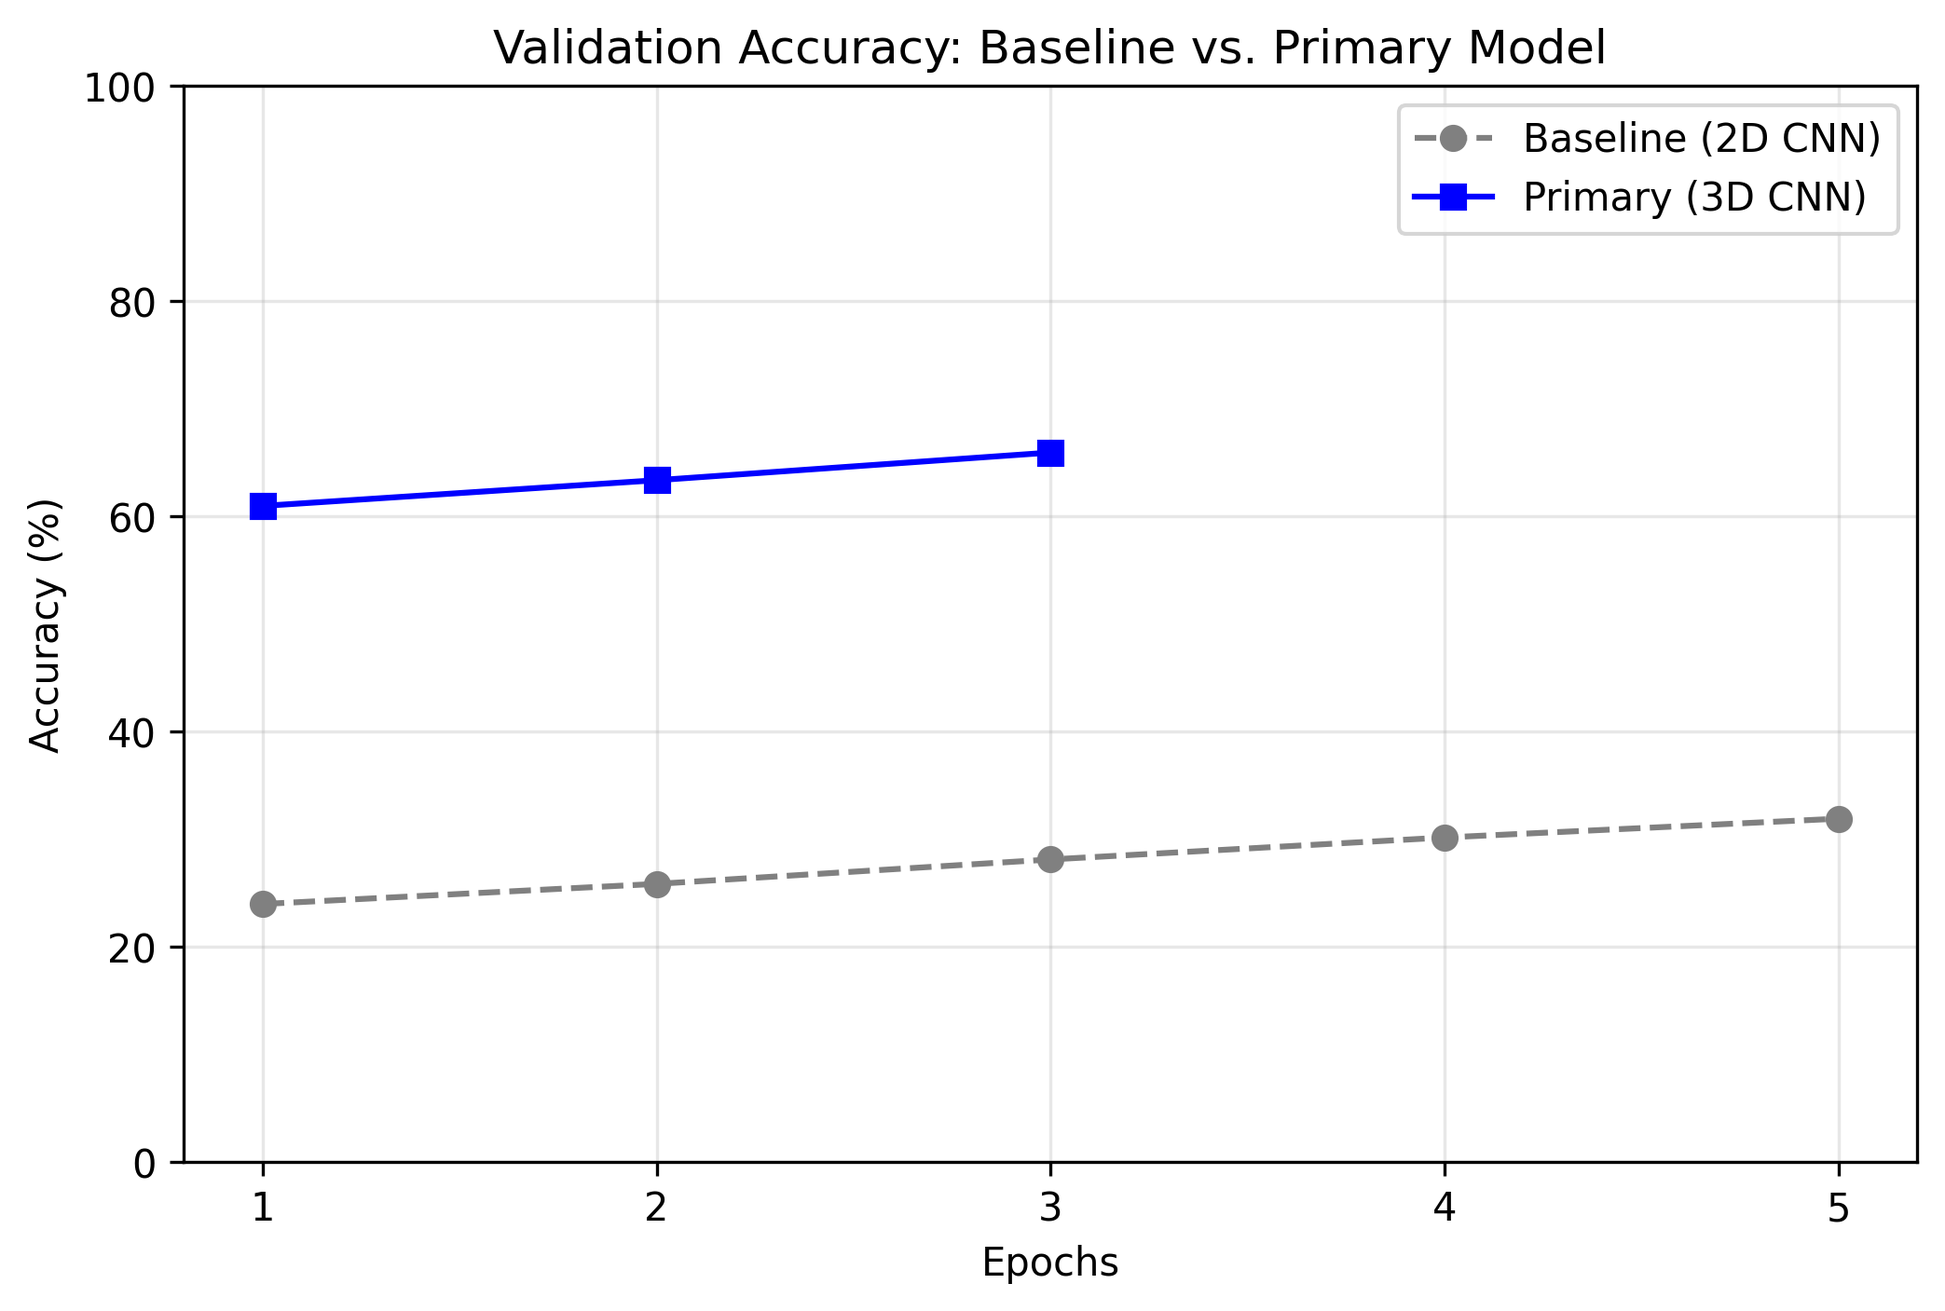
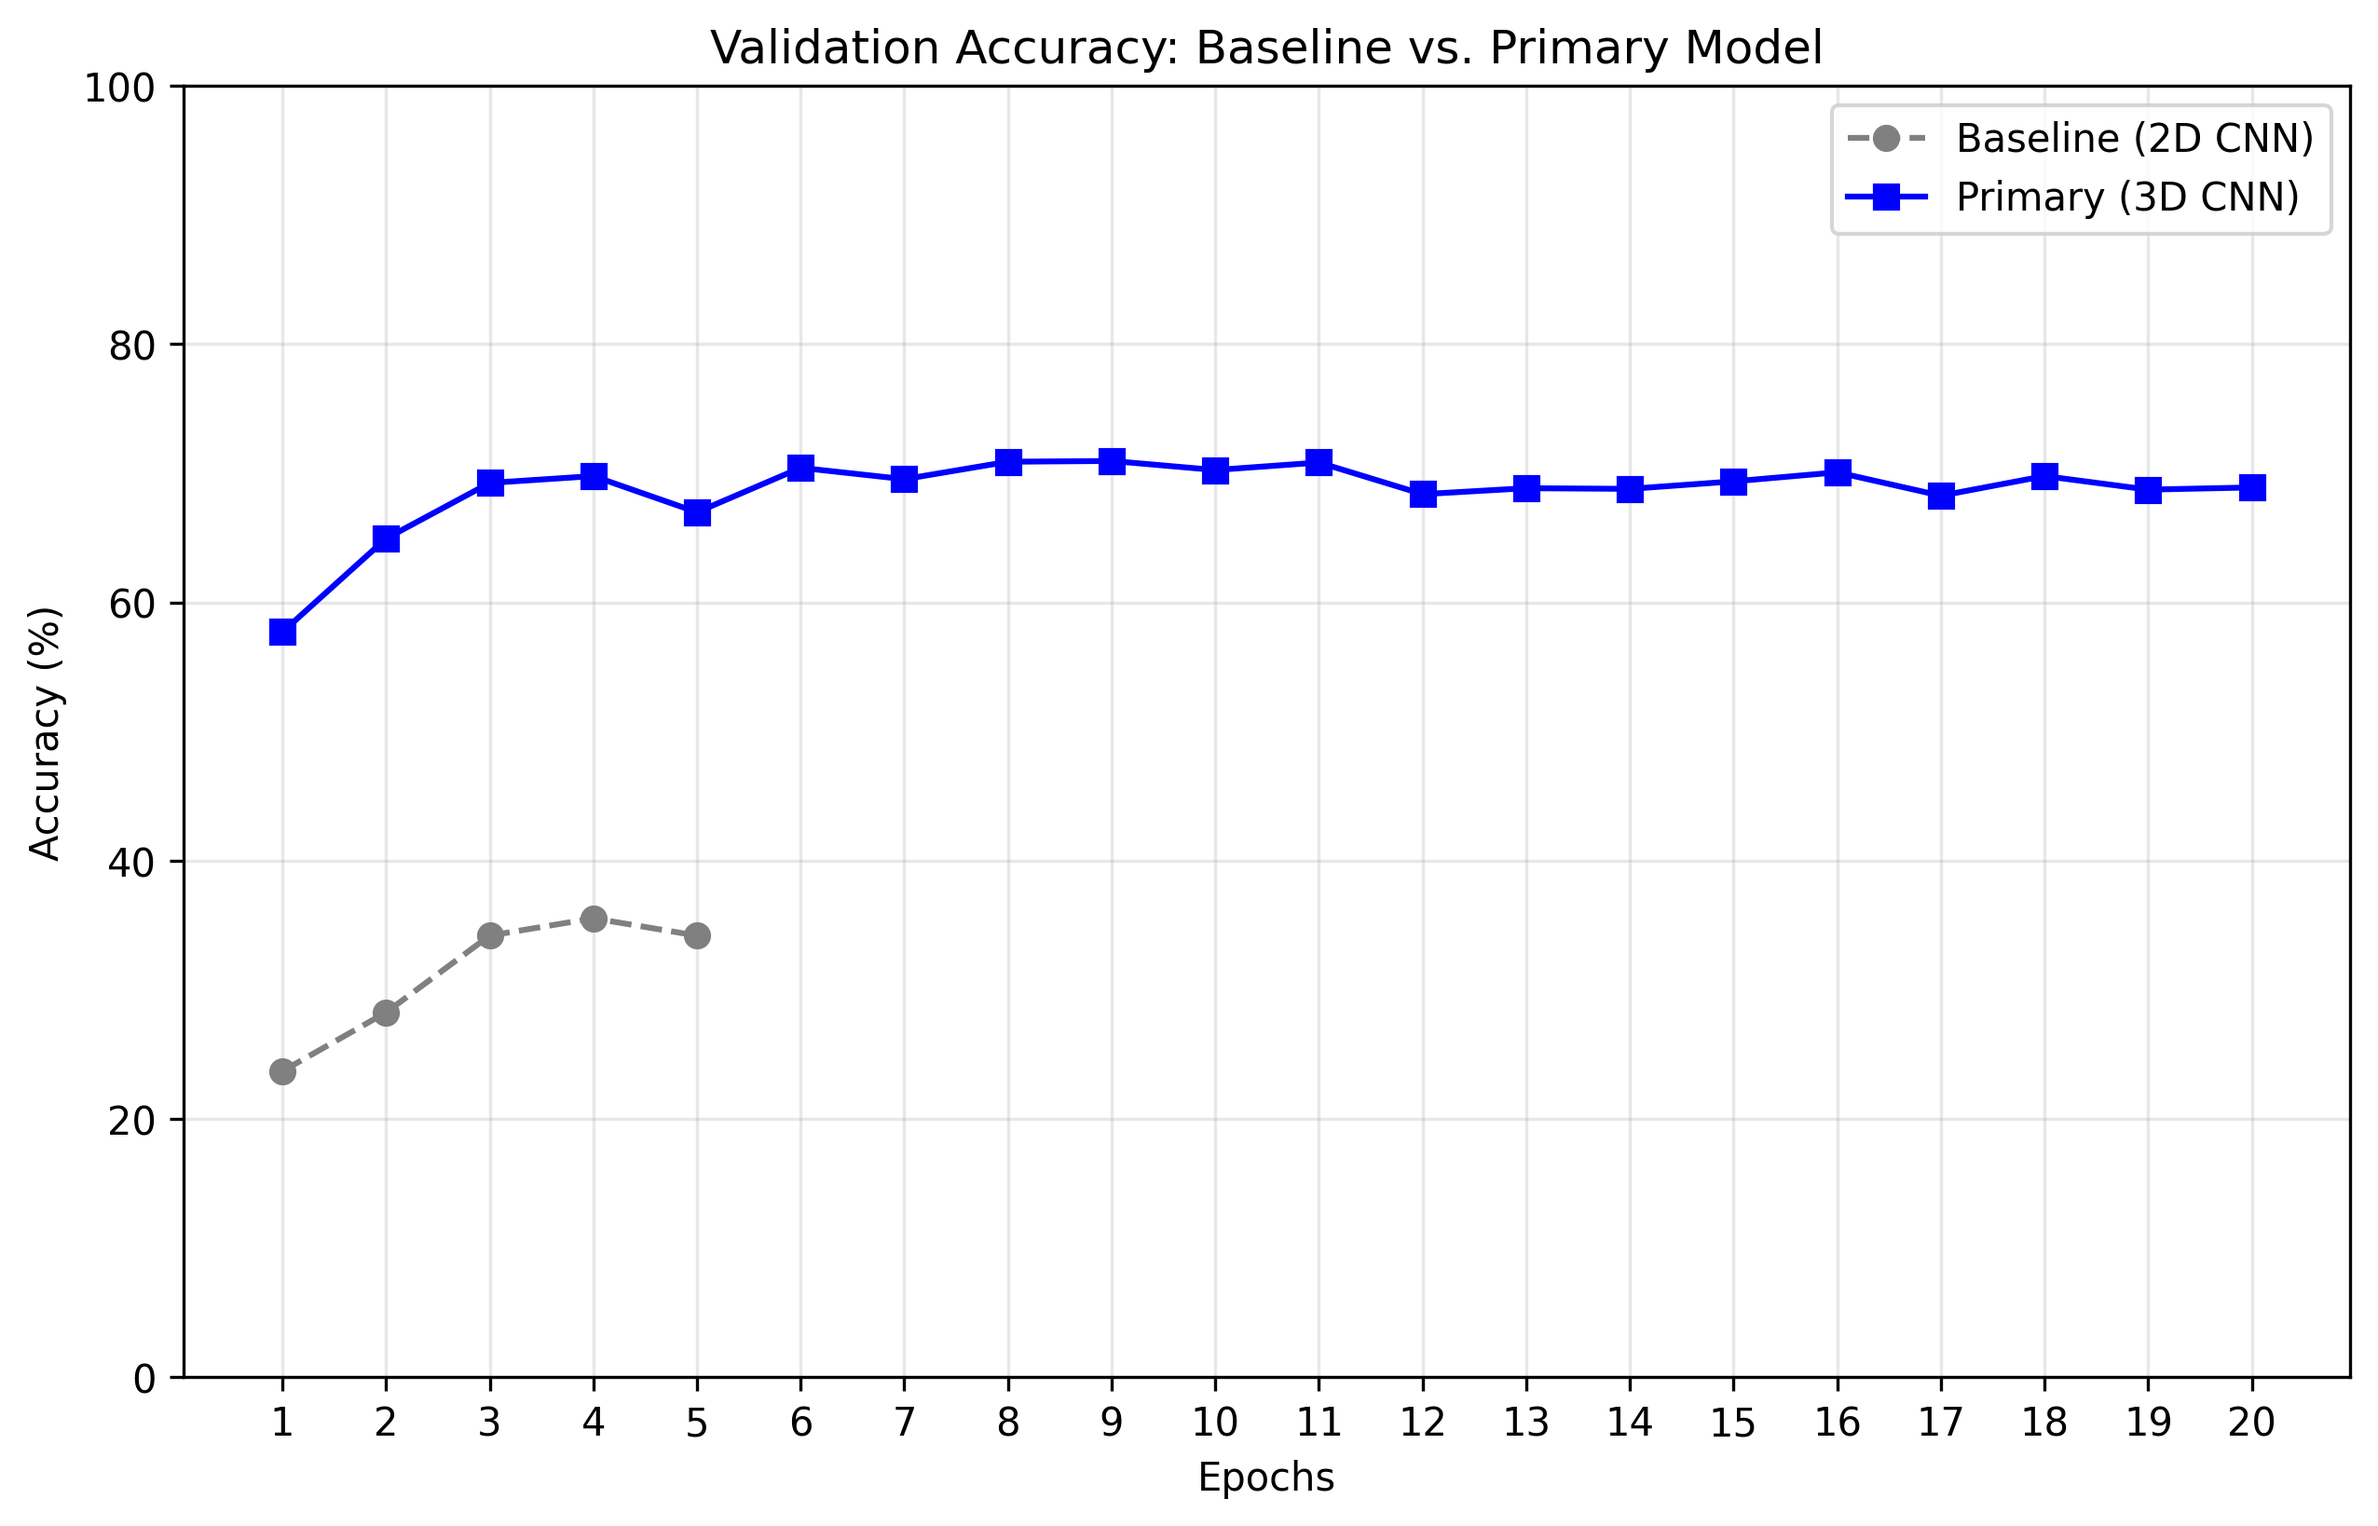
progress report phase

diff --git a/src/evaluation/evaluate_baseline_qualitative.py b/src/evaluation/evaluate_baseline_qualitative.py
@@ -1,0 +1,69 @@
+import torch
+import torch.nn as nn
+import cv2
+import os
+import matplotlib.pyplot as plt
+import numpy as np
+from src.data_prep.gesture_dataset import JesterMiddleFrameDataset, DATASET_PATH, LABEL_DICT
+
+class BaselineCNN(nn.Module):
+    def __init__(self, num_classes=7):
+        super(BaselineCNN, self).__init__()
+        self.conv1 = nn.Conv2d(3, 16, kernel_size=3, padding=1)
+        self.relu1 = nn.ReLU()
+        self.pool1 = nn.MaxPool2d(2, 2)
+        self.conv2 = nn.Conv2d(16, 32, kernel_size=3, padding=1)
+        self.relu2 = nn.ReLU()
+        self.pool2 = nn.MaxPool2d(2, 2)
+        self.flatten = nn.Flatten()
+        self.fc1 = nn.Linear(32 * 28 * 28, 128)
+        self.relu3 = nn.ReLU()
+        self.fc2 = nn.Linear(128, num_classes)
+        
+    def forward(self, x):
+        x = self.pool1(self.relu1(self.conv1(x)))
+        x = self.pool2(self.relu2(self.conv2(x)))
+        x = self.flatten(x)
+        x = self.relu3(self.fc1(x))
+        return self.fc2(x)
+
+def run_baseline_evaluation():
+    device = torch.device("cpu")
+    
+    model = BaselineCNN(num_classes=7).to(device)
+    model.load_state_dict(torch.load('baseline_model.pth', map_location=device))
+    model.eval() 
+    
+    val_csv = "processed_labels/filtered_val.csv"
+    val_dataset = JesterMiddleFrameDataset(csv_file=val_csv, root_dir=DATASET_PATH)
+
+    sample_idx = 10  
+    image_tensor, true_label_idx = val_dataset[sample_idx]
+    
+    inv_label_dict = {v: k for k, v in LABEL_DICT.items()}
+    true_label_name = inv_label_dict[true_label_idx]
+
+    with torch.no_grad():
+        input_tensor = image_tensor.unsqueeze(0).to(device)
+        raw_scores = model(input_tensor)
+        probabilities = torch.nn.functional.softmax(raw_scores[0], dim=0).cpu().numpy() * 100
+
+    labels = list(LABEL_DICT.keys())
+    plt.figure(figsize=(10, 6))
+    bars = plt.barh(labels, probabilities, color='gray')
+    
+    bars[true_label_idx].set_color('salmon')
+    
+    plt.xlabel('Probability (%)')
+    plt.title(f'Baseline Model Prediction Confidence (Single Frame)\nTrue Label: {true_label_name}')
+    plt.xlim(0, 100)
+    plt.grid(axis='x', linestyle='--', alpha=0.7)
+    plt.savefig('baseline_qualitative_result.png', dpi=300, bbox_inches='tight')
+    plt.show()
+    
+    print(f"Qualitative result saved as baseline_qualitative_result.png")
+    for i, label in enumerate(labels):
+        print(f"{label}: {probabilities[i]:.2f}%")
+
+if __name__ == "__main__":
+    run_baseline_evaluation()

diff --git a/src/progress_models/train_baseline.py b/src/progress_models/train_baseline.py
@@ -47,7 +47,8 @@ def main():
     optimizer = optim.Adam(model.parameters(), lr=0.001) 
     
     num_epochs = 5
-    
+    best_val_acc = 0.0
+
     for epoch in range(num_epochs):
         model.train() 
         running_loss = 0.0
@@ -79,7 +80,11 @@ def main():
                 correct += (predicted == labels).sum().item()
                 
         val_accuracy = 100 * correct / total
-        print(f" Epoch [{epoch+1}/{num_epochs}] end | average train loss: {running_loss/len(train_loader):.4f} | validation set accuracy: {val_accuracy:.2f}%")
+        print(f"Epoch [{epoch+1}/{num_epochs}] end | average train loss: {running_loss/len(train_loader):.4f} | validation set accuracy: {val_accuracy:.2f}%")
+
+        if val_accuracy > best_val_acc:
+            best_val_acc = val_accuracy
+            torch.save(model.state_dict(), 'baseline_model.pth')
 
 if __name__ == "__main__":
     main()

diff --git a/src/evaluation/plot_results.py b/src/evaluation/plot_results.py
@@ -1,12 +1,17 @@
 import matplotlib.pyplot as plt
 
 epochs_baseline = [1, 2, 3, 4, 5]
-acc_baseline = [23.98, 25.85, 28.12, 30.16, 31.91]
+acc_baseline = [23.69, 28.24, 34.19, 35.53, 34.19]
 
-epochs_primary = [1, 2, 3]
-acc_primary = [60.97, 63.36, 65.93]
+epochs_primary = list(range(1, 21))
+acc_primary = [
+    57.70, 64.94, 69.25, 69.78, 66.98,
+    70.42, 69.54, 70.89, 70.95, 70.25,
+    70.83, 68.38, 68.84, 68.79, 69.37,
+    70.07, 68.26, 69.78, 68.73, 68.90
+]
 
-plt.figure(figsize=(8, 5))
+plt.figure(figsize=(10, 6))
 
 plt.plot(epochs_baseline, acc_baseline, marker='o', linestyle='--', color='gray', label='Baseline (2D CNN)')
 
@@ -16,7 +21,7 @@ plt.title('Validation Accuracy: Baseline vs. Primary Model')
 plt.xlabel('Epochs')
 plt.ylabel('Accuracy (%)')
 plt.ylim(0, 100)
-plt.xticks([1, 2, 3, 4, 5])
+plt.xticks(range(1, 21))
 plt.grid(True, alpha=0.3)
 plt.legend()
 
